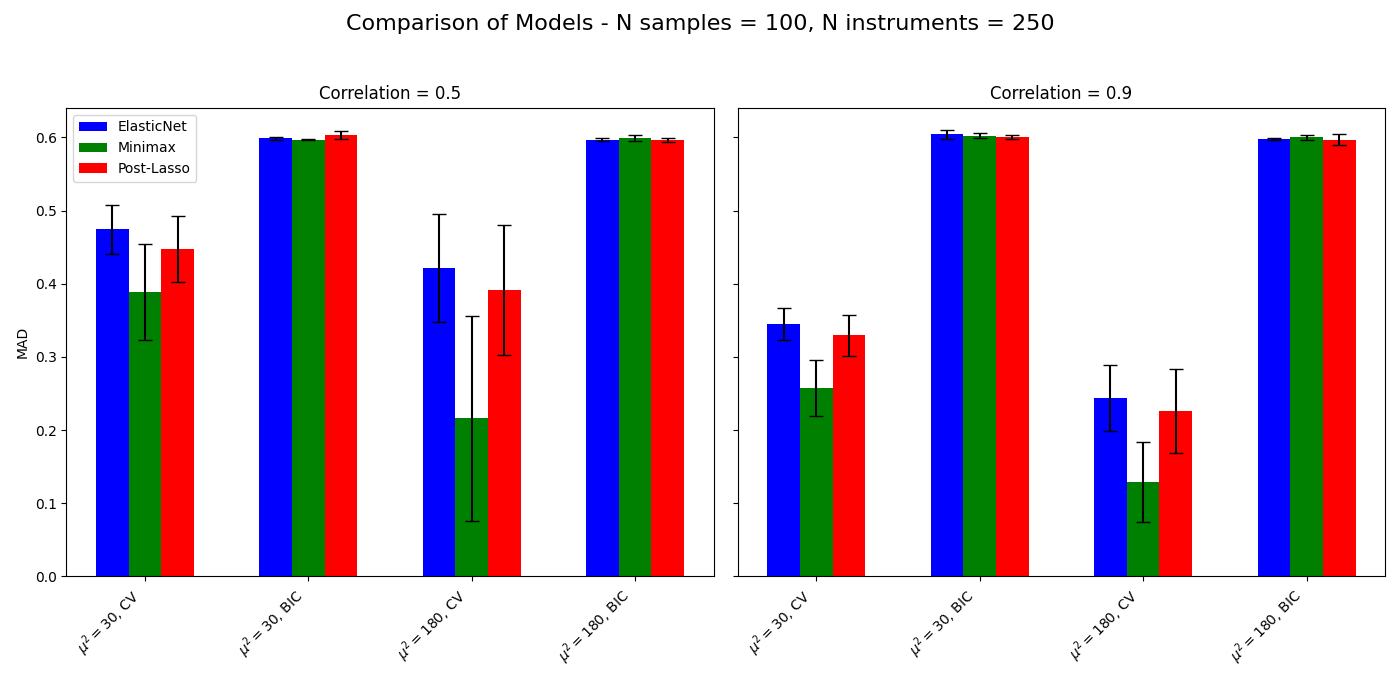
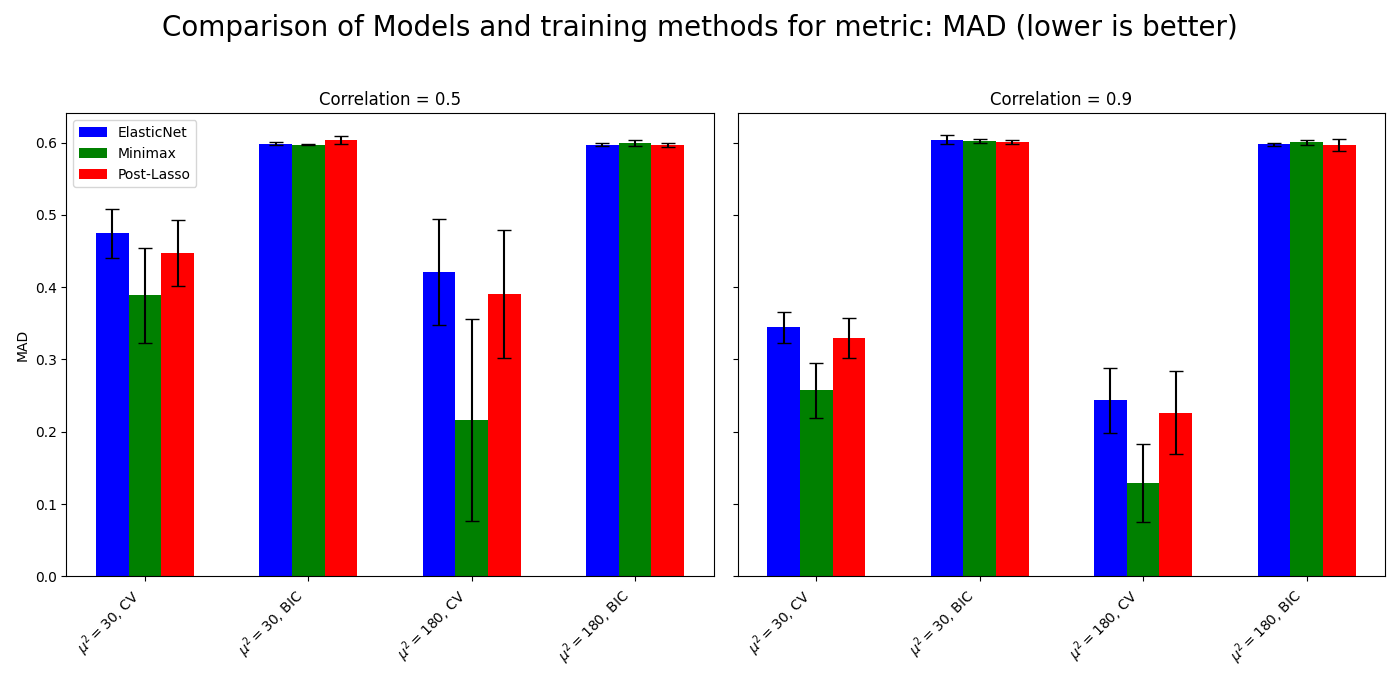
Changed title of figures

diff --git a/visualise_results.py b/visualise_results.py
@@ -8,8 +8,8 @@ compare_models = ["ElasticNet (BIC)", "ElasticNet (CV)", "Minimax (BIC)", "Minim
 
 # Choose the metric to visualize: "MAD", "Bias", "rp(0.05)"
 metric = "MAD"
-n_samples = 100
-n_instruments = 250
+n_samples = 250
+n_instruments = 100
 
 fig, axs = plt.subplots(1, 2, figsize=(14, 7), sharey=True)
 
@@ -47,7 +47,7 @@ for i, correlation in enumerate([0.5, 0.9]):
 
 axs[0].set_ylabel(metric)
 axs[0].legend()
-fig.suptitle(f'Comparison of Models - N samples = {n_samples}, N instruments = {n_instruments}', fontsize=16)
+fig.suptitle(f'Comparison of Models and training methods for metric: {metric} (lower is better)', fontsize=20)
 plt.tight_layout(rect=[0, 0.03, 1, 0.95])
 plt.savefig(f"plots/Comparison of Models - N samples = {n_samples}, N instruments = {n_instruments}, Metric = {metric}.png")
 plt.show()
